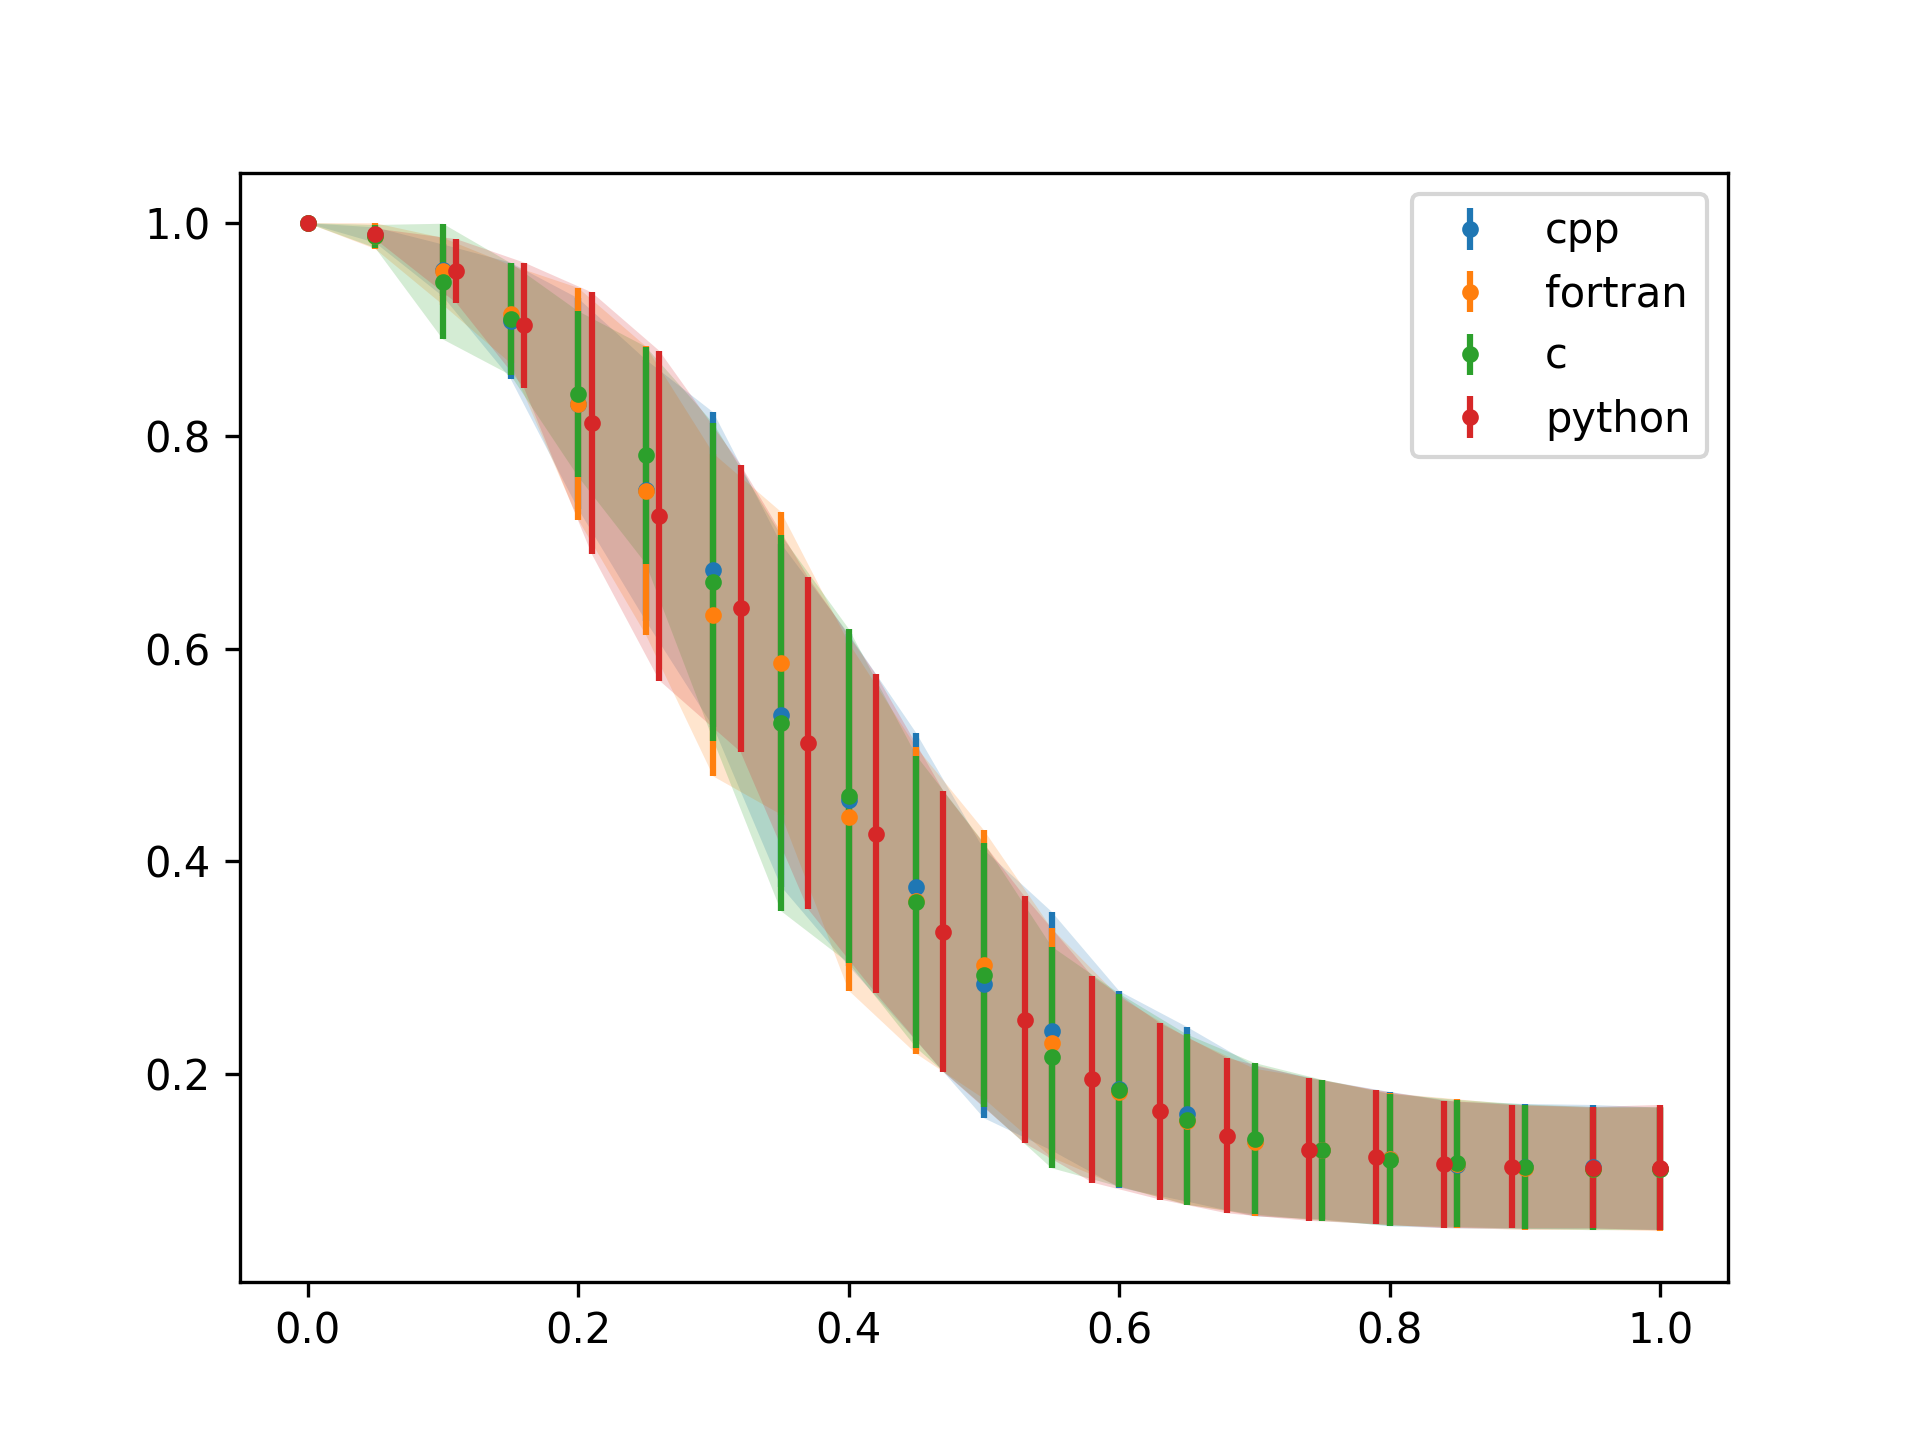
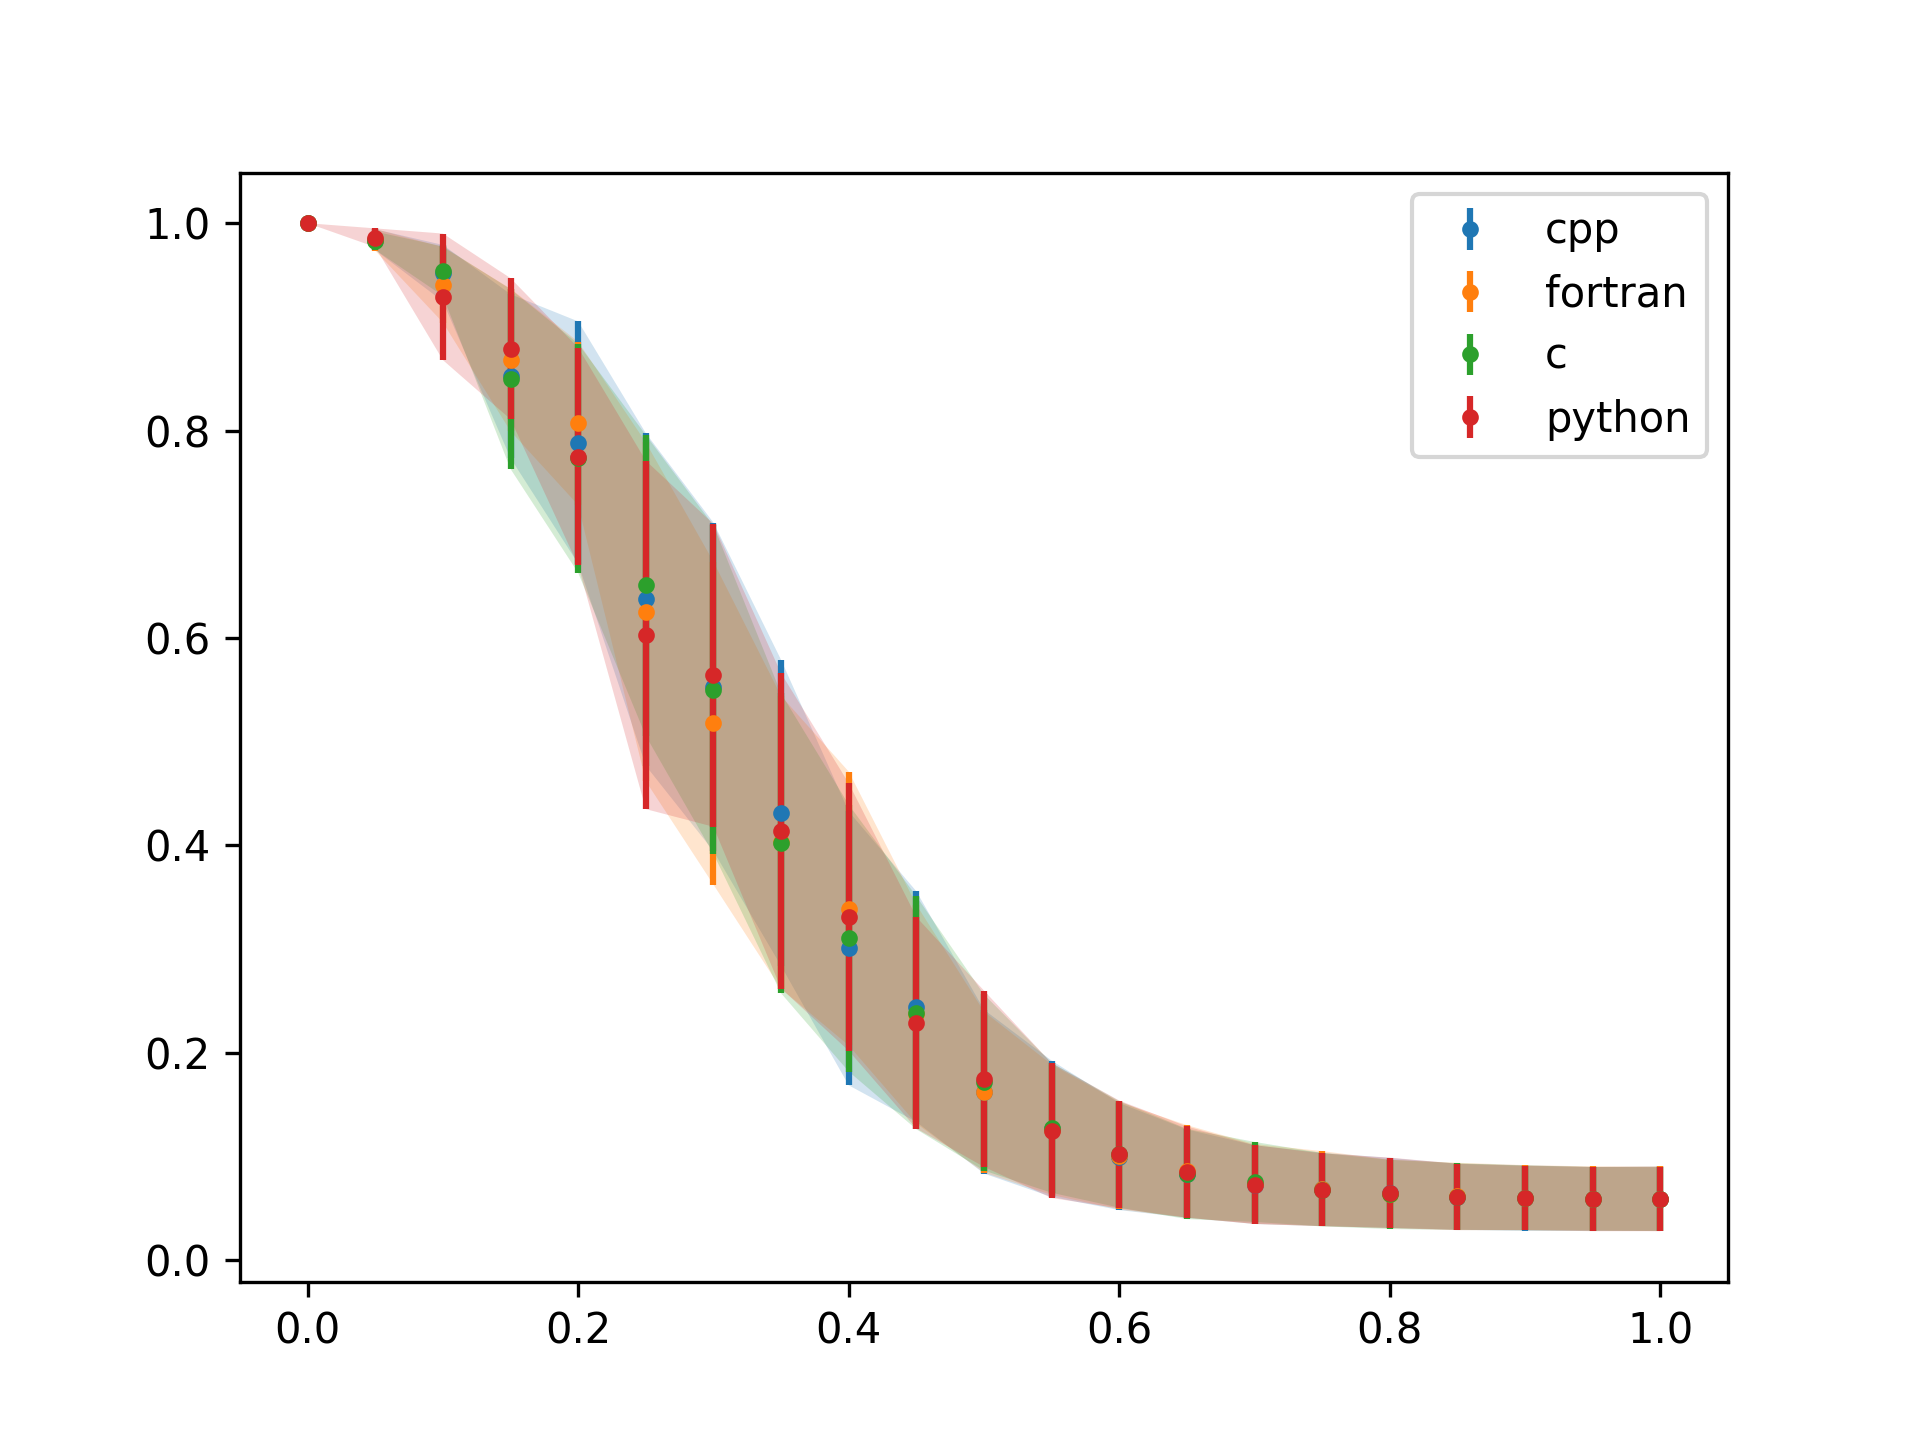
fixing c/c++ float comparisons

diff --git a/main.cpp b/main.cpp
@@ -14,12 +14,10 @@ class vicsek_system
 {
 private:
     float v0, inv_2L, th = 1.0, rand_const = (1.0 / 4294967296.0);
-    int L, N_cells, N;
-    // float *x, *y, *vx, *vy;
-    // vector<float> x, y;
+    int L, N_cells, N, N4;
+    float sum_phis, sum_phis2, float_L;
+    int N_observations;
     vector<float> vel, pos;
-    // float *pos, *vel;
-    // int *near_nbr_cells;
     vector<int> near_nbr_cells;
     sfmt_t sfmt;
 
@@ -44,71 +42,17 @@ private:
 
     inline float wrap3(float value)
     {
-        return (value > 0 ? (value > L ? value - L : value) : value + L);
+        return (value > 0 ? (value >= L ? value - L : value) : value + L);
+        // int int_value = int(value)
+        // if (int(value) >= L)
+        //     cout << value << " es mes gran int\n";
+        // if (value >= L)
+        //     cout << value << " es mes gran float\n";
+        // return (value > 0 ? (fmod(value, float_L - 1.e-5)) : value + L);
     }
-
-public:
-    float eta;
-    float sum_phis, sum_phis2;
-    int N_observations;
-
-    void get_and_reset_observables(float *phi, float *sigma_phi, float *xi_phi)
-    {
-        *phi = sum_phis / (float(N) * float(N_observations));
-        *sigma_phi = sqrt(sum_phis2 / float(N_observations) - (sum_phis * sum_phis) / float(N_observations * N_observations)) / float(N);
-        *xi_phi = (sum_phis2 - (sum_phis * sum_phis) / float(N_observations)) / sum_phis;
-
-        sum_phis2 = 0.0;
-        sum_phis = 0.0;
-        N_observations = 0;
-    }
-
-    vicsek_system(float rho_in,
-                  float v0_in,
-                  int L_in,
-                  int seed) : v0(v0_in),
-                              L(L_in),
-                              N_cells(L_in * L_in),
-                              N(int((L_in * L_in * rho_in + 2.0) / 4) * 4),
-                              inv_2L(2.0 / float(L_in))
-    {
-        // pos = (float *)malloc(2 * N * sizeof(float));
-        // vel = (float *)malloc(2 * N * sizeof(float));
-
-        vel.resize(2 * N);
-        // for (int i = 0; i < N; i++)
-        //     vel[i].resize(2);
-
-        pos.resize(2 * N);
-        // for (int i = 0; i < N; i++)
-        //     pos[i].resize(2);
-
-        // vy.resize(N);
-        // cout << sfmt_get_min_array_size32(&sfmt) << endl;
-        // near_nbr_cells = (int *)malloc(N_cells * 4 * sizeof(int));
-        near_nbr_cells.resize(N_cells * 4);
-        sfmt_init_gen_rand(&sfmt, seed);
-        randomize_system();
-        set_geometry();
-        float junk;
-        get_and_reset_observables(&junk, &junk, &junk);
-    }
-
-    // ~vicsek_system()
-    // {
-    // free(x);
-    // free(y);
-    // free(vx);
-    // free(vy);
-    // free(pos);
-    // free(vel);
-    // free(near_nbr_cells);
-    // }
 
     void update_observables()
     {
-        // float sum_x = accumulate(vx, vx + N, 0.0);
-        // float sum_y = accumulate(vy, vy + N, 0.0);
 
         float sum_x = 0, sum_y = 0;
 
@@ -117,8 +61,6 @@ public:
             sum_x += vel[i++];
             sum_y += vel[i++];
         }
-        // float sum_x = accumulate(begin(vx), end(vx), 0.0);
-        // float sum_y = accumulate(begin(vy), end(vy), 0.0);
         float polar_i_sq = sum_x * sum_x + sum_y * sum_y;
 
         sum_phis += sqrt(polar_i_sq);
@@ -168,9 +110,8 @@ public:
     void randomize_system()
     {
 
-        int random_lenght = max(3 * N, sfmt_get_min_array_size32(&sfmt));
+        int random_lenght = max(3 * N4, sfmt_get_min_array_size32(&sfmt));
 
-        // uint32_t *random = (uint32_t *)malloc(random_lenght * sizeof(uint32_t));
         vector<uint32_t> random(random_lenght);
 
         sfmt_fill_array32(&sfmt, random.data(), random_lenght);
@@ -183,61 +124,85 @@ public:
             vel[2 * i] = cos(theta);
             vel[2 * i + 1] = sin(theta);
         }
-        // free(random);
+    }
+
+public:
+    float eta;
+
+    void get_and_reset_observables(float *phi, float *sigma_phi, float *xi_phi)
+    {
+        *phi = sum_phis / (float(N) * float(N_observations));
+        *sigma_phi = sqrt(sum_phis2 / float(N_observations) - (sum_phis * sum_phis) / float(N_observations * N_observations)) / float(N);
+        *xi_phi = (sum_phis2 - (sum_phis * sum_phis) / float(N_observations)) / sum_phis;
+
+        sum_phis2 = 0.0;
+        sum_phis = 0.0;
+        N_observations = 0;
+    }
+
+    vicsek_system(float rho_in,
+                  float v0_in,
+                  int L_in,
+                  int seed) : v0(v0_in),
+                              L(L_in),
+                              N_cells(L_in * L_in),
+                              N(int(L_in * L_in * rho_in)),
+                              inv_2L(2.0 / float(L_in)),
+                              float_L(float(L_in))
+    {
+        N4 = 4 * (N / 4) + 4;
+        vel.resize(2 * N);
+        pos.resize(2 * N);
+        near_nbr_cells.resize(N_cells * 4);
+
+        sfmt_init_gen_rand(&sfmt, seed);
+        randomize_system();
+        set_geometry();
+        float junk;
+        get_and_reset_observables(&junk, &junk, &junk);
     }
 
     void integrate(int steps = 1, int update_obs = 0)
     {
 
-        // float *integr = (float *)malloc(2 * N * sizeof(float));
-        // int *header = (int *)malloc(N_cells * sizeof(int));
-        // int *cell_list = (int *)malloc(2 * N * sizeof(int));
+        int random_lenght = max(N4, sfmt_get_min_array_size32(&sfmt));
 
         vector<float> integr(2 * N);
         vector<int> header(N_cells);
         vector<int> cell_list(2 * N);
-
-        // float integr[2 * N];
-        // int header[N_cells];
-        // int cell_list[2 * N];
-        // vector<float> integr(2 * N);
-        // vector<int> header(N_cells);
-        // vector<int> cell_list(2 * N);
-
         vector<float> particle_direction(N);
-        int random_lenght = max(N, sfmt_get_min_array_size32(&sfmt));
-
         vector<uint32_t> random(random_lenght);
-        // uint32_t *random = (uint32_t *)malloc(random_lenght * sizeof(uint32_t));
+
         const float factor1 = eta * 6.283185307179586 * rand_const;
         const float factor2 = -eta * 3.14159265359;
 
-        // TODO: Create an array of pointers do every Y element (another for X) of integr (or vel os pos...)
-        // Objective. Clean up the code without (2*i + 1) while having contiguous x/y components.
-
         for (int step = 0; step < steps; step++)
         {
-            for (int i = 0; i < N_cells; i++)
-                header[i] = -1;
 
-            for (int i = 0; i < 2 * N; i++)
-                integr[i] = vel[i];
+            // for (int i = 0; i < N_cells; i++)
+            //     header[i] = -1;
+            fill(header.begin(), header.end(), -1);
+
+            // for (int i = 0; i < 2 * N; i++)
+            //     integr[i] = vel[i];
+            integr = vel;
 
             for (int i = 0; i < 2 * N; i += 2)
             {
-                int cell = int(pos[i]) + L * (int(pos[i + 1]));
+                int cell = int(pos[i]) % L + L * ((int(pos[i + 1])) % L);
                 cell_list[i] = header[cell];
+
                 header[cell] = i;
             }
 
             for (int cell = 0; cell < N_cells; cell++)
             {
-                // int *nbr_indx = near_nbr_cells[] + cell * 4;
                 for (int i = header[cell]; i > -1; i = cell_list[i])
                 {
 
                     for (int j = cell_list[i]; j > -1; j = cell_list[j])
                     {
+
                         if (dist_simple(&pos[i], &pos[j]) < th)
                         {
                             integr[i] += vel[j];
@@ -249,6 +214,7 @@ public:
 
                     for (int j = header[near_nbr_cells[4 * cell]]; j > -1; j = cell_list[j])
                     {
+
                         if (dist_PBC(&pos[i], &pos[j]) < th)
                         {
                             integr[i] += vel[j];
@@ -260,6 +226,7 @@ public:
 
                     for (int j = header[near_nbr_cells[4 * cell + 1]]; j > -1; j = cell_list[j])
                     {
+
                         if (dist_PBC(&pos[i], &pos[j]) < th)
                         {
                             integr[i] += vel[j];
@@ -271,6 +238,7 @@ public:
 
                     for (int j = header[near_nbr_cells[4 * cell + 2]]; j > -1; j = cell_list[j])
                     {
+
                         if (dist_PBC(&pos[i], &pos[j]) < th)
                         {
                             integr[i] += vel[j];
@@ -290,16 +258,15 @@ public:
                             integr[j + 1] += vel[i + 1];
                         }
                     }
-                    // nbr_indx -= 3;
                 }
             }
 
             sfmt_fill_array32(&sfmt, random.data(), random_lenght);
 
             for (int i = 0; i < N; i++)
-
+            {
                 particle_direction[i] = atan2(integr[2 * i + 1], integr[2 * i]) + factor1 * random[i] + factor2;
-
+            }
             for (int i = 0; i < N; i++)
             {
                 vel[2 * i] = cos(particle_direction[i]);
@@ -309,15 +276,13 @@ public:
             for (int i = 0; i < 2 * N; i++)
             {
                 pos[i] = wrap3(pos[i] + v0 * vel[i]);
+                // if (int(pos[i]) >= L)
+                //     cout << "MAL FET on step " << step << " particle " << i << " " << pos[i] << endl;
             }
 
             if (update_obs)
                 update_observables();
         }
-        // free(header);
-        // free(cell_list);
-        // free(integr);
-        // free(random);
     }
 };
 
@@ -345,13 +310,11 @@ int main(int argc, char *argv[])
 
     for (system.eta = 0.0; system.eta < 1.01; system.eta += 0.05)
     {
+
         system.integrate(N_reset);
-
         system.integrate(N_steps, 1);
-
         system.get_and_reset_observables(&phi, &sigma_phi, &xi_phi);
 
         cout << system.eta << ',' << phi << ',' << sigma_phi << ',' << xi_phi << endl;
     }
-    // delete system;
 }

diff --git a/main.c b/main.c
@@ -6,7 +6,7 @@
 sfmt_t sfmt;
 
 float rho, eta, v0;
-int N, N_cells, L, N_observations;
+int N, N_cells, L, N_observations, N4;
 float v0, inv_2L, eta, sum_phis, sum_phis2;
 const float th = 1.0, rand_const = (1.0 / 4294967296.0);
 float *pos, *vel;
@@ -68,7 +68,7 @@ void update_observables()
 
 void randomize_system()
 {
-    int random_lenght = fmax(3 * N, sfmt_get_min_array_size32(&sfmt));
+    int random_lenght = fmax(3 * N4, sfmt_get_min_array_size32(&sfmt));
     uint32_t random[random_lenght];
     sfmt_fill_array32(&sfmt, random, random_lenght);
 
@@ -95,7 +95,7 @@ void integrate(int steps, int update_obs)
     // int cell_list[2 * N];
 
     float particle_direction[N];
-    int random_lenght = fmax(N, sfmt_get_min_array_size32(&sfmt));
+    int random_lenght = fmax(N4, sfmt_get_min_array_size32(&sfmt));
     uint32_t *random = (uint32_t *)malloc(random_lenght * sizeof(uint32_t));
     const float factor1 = eta * 2.0 * 3.14159265359 * rand_const, float_L = (float)L;
     const float factor2 = -eta * 3.14159265359;
@@ -113,7 +113,7 @@ void integrate(int steps, int update_obs)
 
         for (int i = 0; i < 2 * N; i += 2)
         {
-            int cell = (int)(pos[i]) + L * ((int)(pos[i + 1]));
+            int cell = (int)(pos[i]) % L + L * ((int)(pos[i + 1]) % L);
             // printf("%f, %i\n", pos[i], (int)(pos[i]) % L);
             cell_list[i] = header[cell];
             header[cell] = i;
@@ -263,6 +263,7 @@ int main(int argc, char *argv[])
     sfmt_init_gen_rand(&sfmt, seed);
 
     N = (int)((float)L * (float)L * rho);
+    N4 = 4 * (N / 4) + 4;
     N_cells = L * L;
     inv_2L = (2.0 / (float)(L));
 

diff --git a/main.py b/main.py
@@ -158,7 +158,7 @@ def integrate(steps, update_obs, pos, vel, eta):
 eta = 0.0
 pos, vel, phi, sigma_phi, xi_phi = integrate(N_reset, False, pos, vel, eta)
 
-for eta in np.linspace(0, 1, 20):
+for eta in np.linspace(0, 1, 21):
     pos, vel, phi, sigma_phi, xi_phi = integrate(N_reset, False, pos, vel, eta)
     pos, vel, phi, sigma_phi, xi_phi = integrate(N_steps, True, pos, vel, eta)
     # print(eta)
